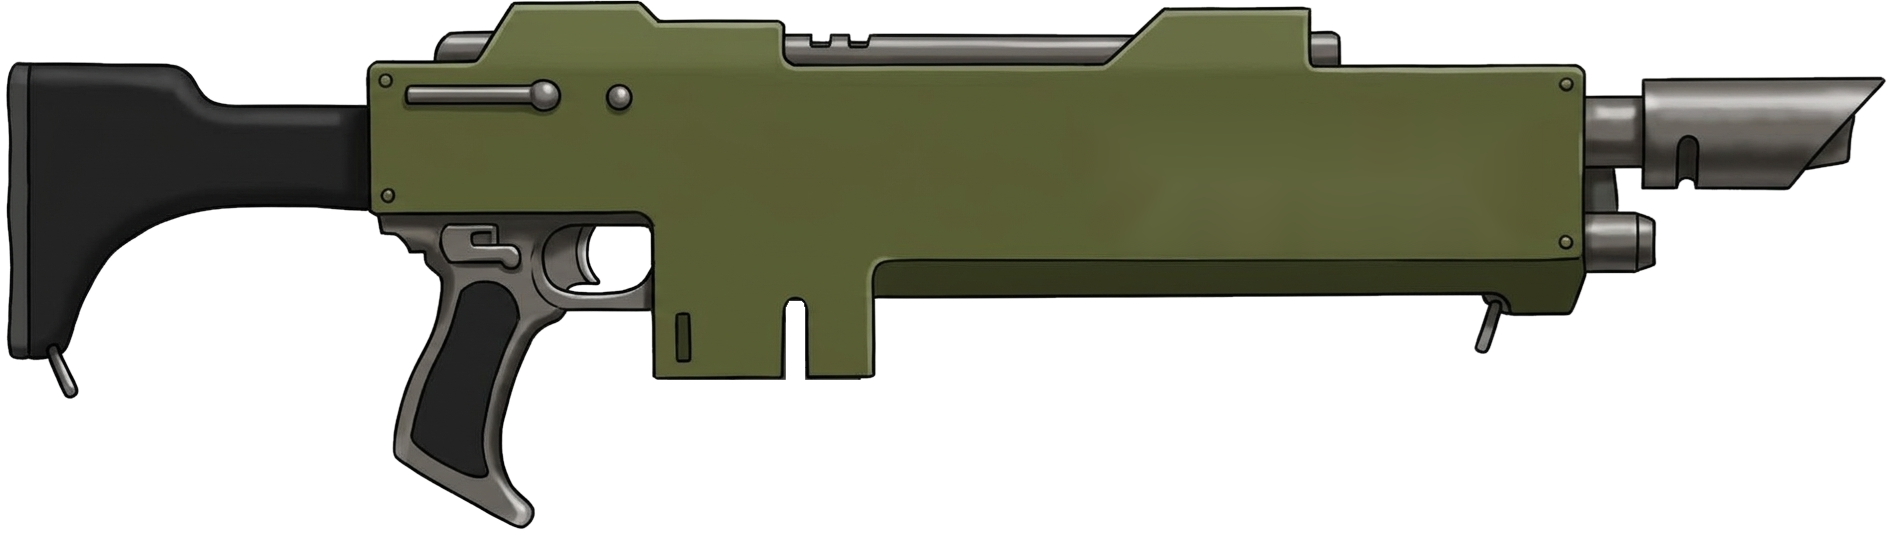
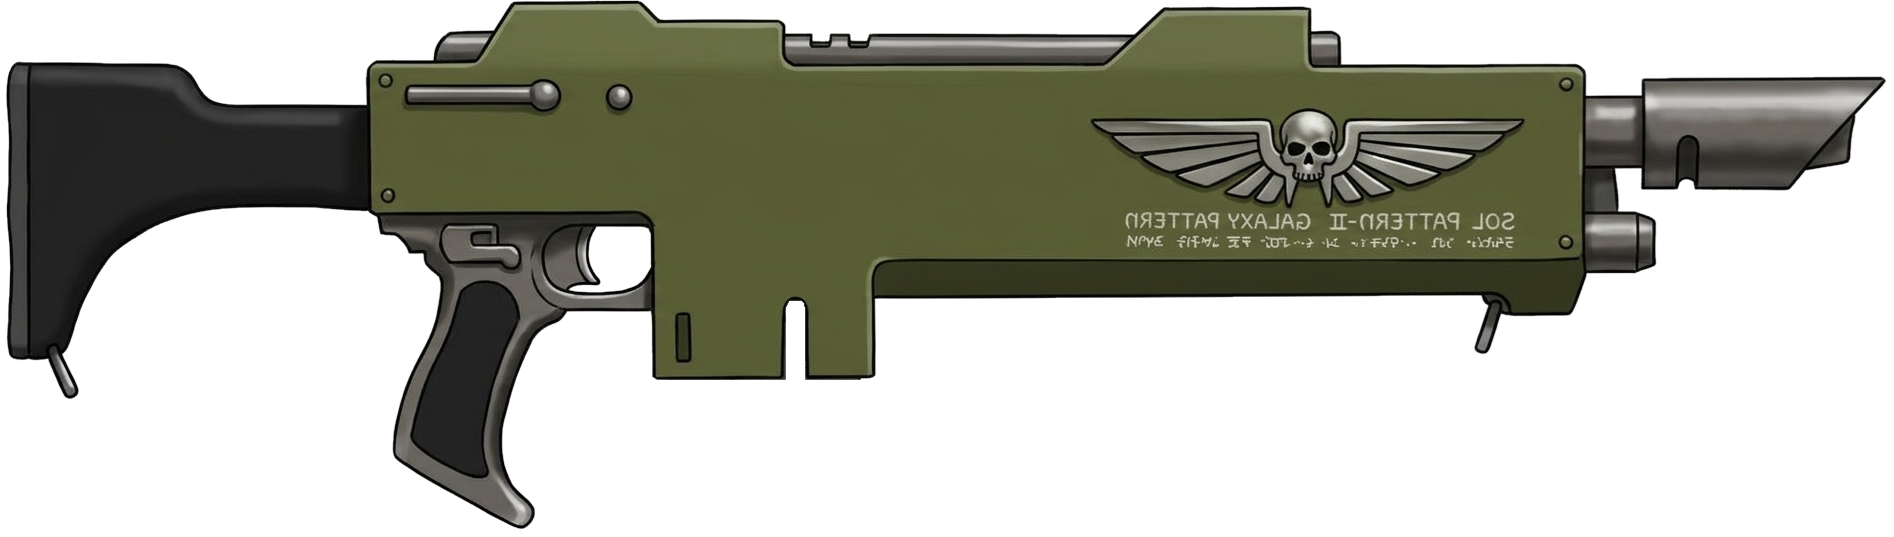
Keep the side emblem and lettering on the rifle sprite
Claude-Session: https://claude.ai/code/session_01PqPi8SRqyZdJEsWyYG1nUx

Changed region(s): [[0.5607, 0.2086, 0.8099, 0.4767]]

diff --git a/tools/make_rifle_from_reference.py b/tools/make_rifle_from_reference.py
@@ -2,13 +2,15 @@ import sys, numpy as np, cv2
 from PIL import Image, ImageFilter
 src, out_sprite, out_full = sys.argv[1:4]
 img = cv2.imread(src); h, w = img.shape[:2]
-# paint out the winged-skull emblem and the lettering with the flat body green
-mask = np.zeros((h, w), np.uint8)
-cv2.rectangle(mask, (1082, 104), (1532, 216), 255, -1)
-cv2.rectangle(mask, (1108, 204), (1527, 252), 255, -1)
-img = cv2.inpaint(img, mask, 7, cv2.INPAINT_TELEA)
-m3 = cv2.GaussianBlur(mask.astype(np.float32) / 255, (0, 0), 3)[..., None]
-img = (img * (1 - m3) + cv2.GaussianBlur(img, (0, 0), 4) * m3).astype(np.uint8)
+# the side emblem and lettering are kept as drawn (PAINT_OUT=True paints them out)
+PAINT_OUT = False
+if PAINT_OUT:
+    mask = np.zeros((h, w), np.uint8)
+    cv2.rectangle(mask, (1082, 104), (1532, 216), 255, -1)
+    cv2.rectangle(mask, (1108, 204), (1527, 252), 255, -1)
+    img = cv2.inpaint(img, mask, 7, cv2.INPAINT_TELEA)
+    m3 = cv2.GaussianBlur(mask.astype(np.float32) / 255, (0, 0), 3)[..., None]
+    img = (img * (1 - m3) + cv2.GaussianBlur(img, (0, 0), 4) * m3).astype(np.uint8)
 # cut out the white background (flood from the border; also closed white gaps like the trigger guard)
 white = (img.min(axis=2) > 232).astype(np.uint8)
 n, lab = cv2.connectedComponents(white)

diff --git a/README.md b/README.md
@@ -39,6 +39,6 @@ To ship only original audio, set `[Sound] File = fire-original.wav` or replace `
 
 ## Art
 
-The rifle sprite is made from the reference picture the mod author supplied (`art-src/laser-rifle-reference-3.png`), cut out with its emblem and lettering painted out (`tools/make_rifle_from_reference.py`). The battery/charge sprites are original (`tools/make_art.py`).
+The rifle sprite is made from the reference picture the mod author supplied (`art-src/laser-rifle-reference-3.png`), cut out from its white background (`tools/make_rifle_from_reference.py`). The battery/charge sprites are original (`tools/make_art.py`).
 The rifle uses the Boltgun rifle's canvas, sprite regions and hand/muzzle/magazine offsets so it sits
 in the hands the same way.
